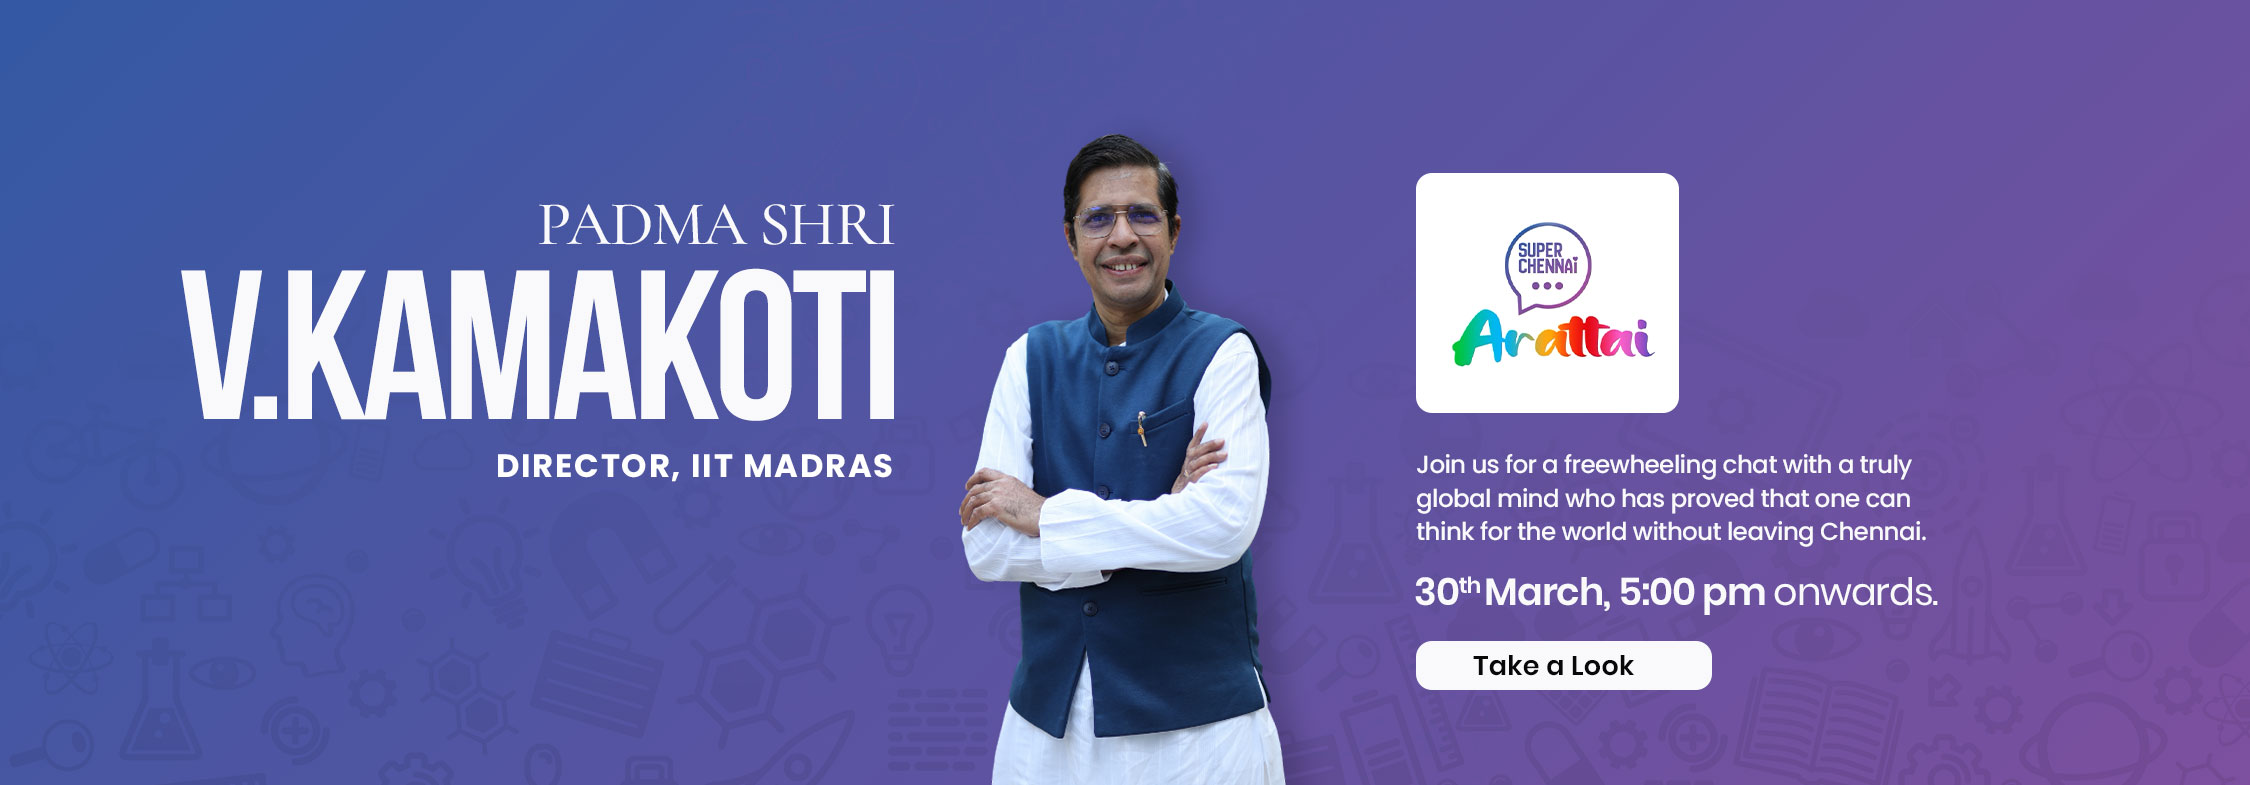
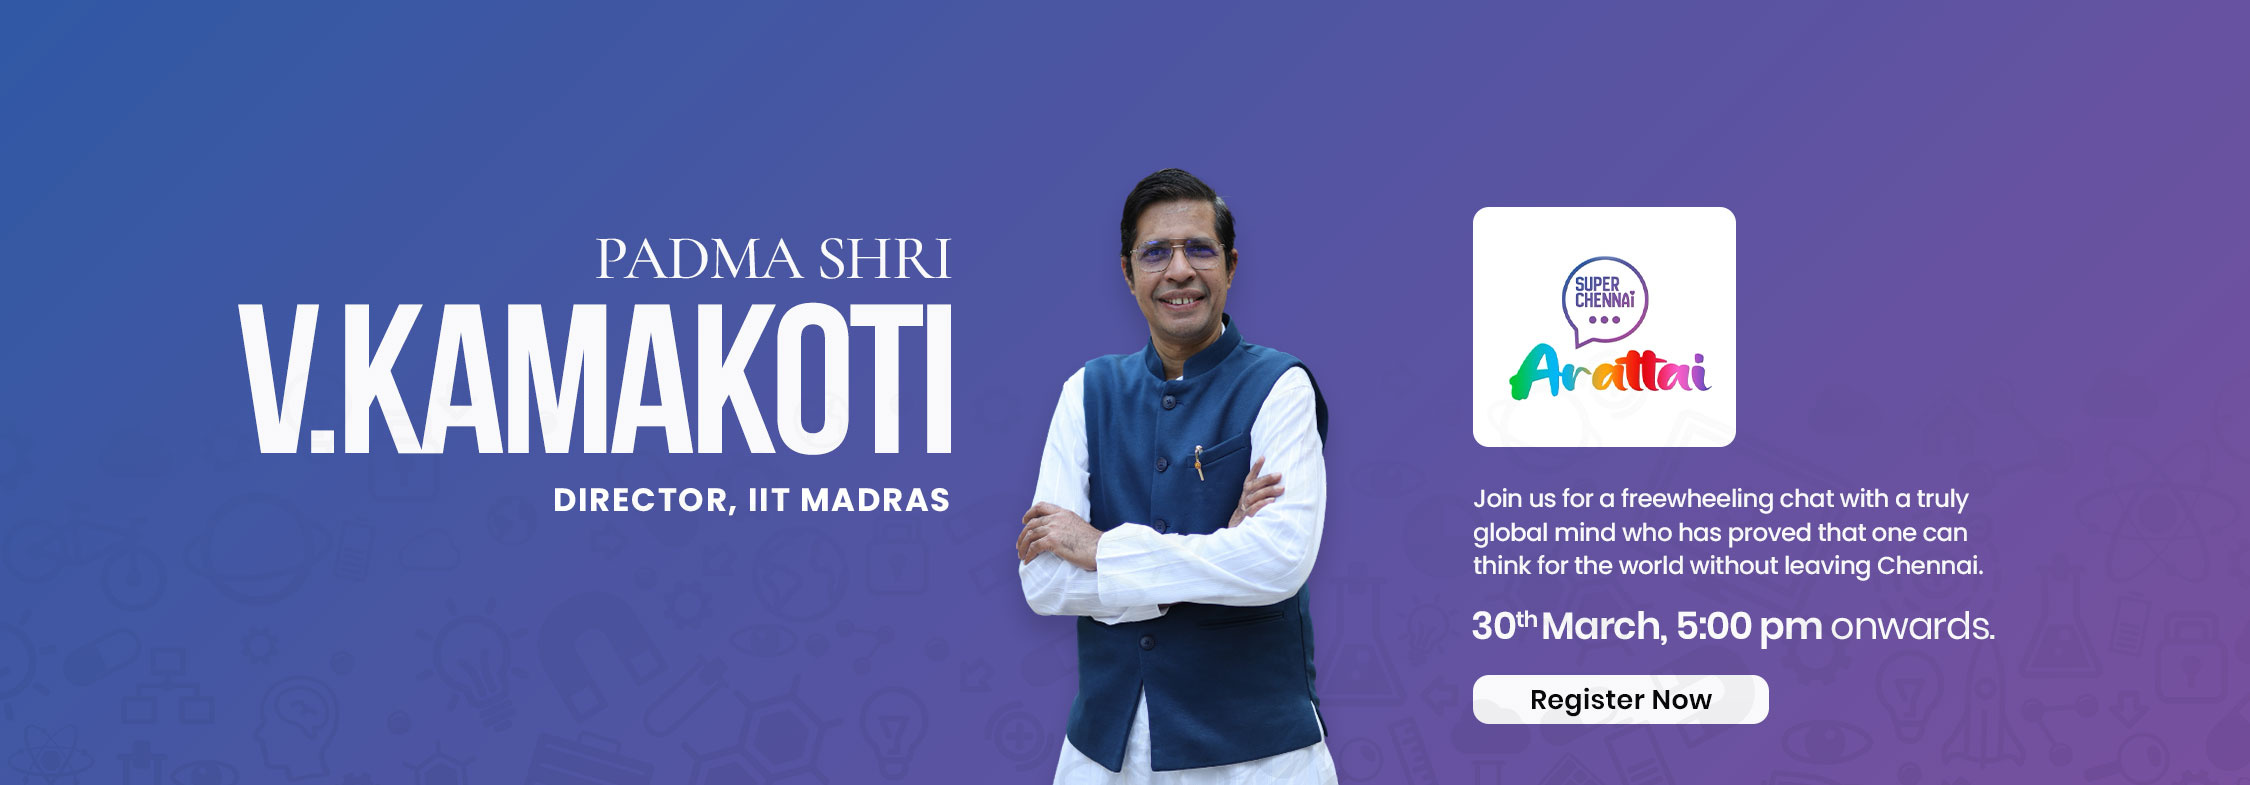
add kamakoti form

Changed region(s): [[0.0622, 0.1529, 0.6222, 1.0], [0.6222, 0.214, 0.9022, 0.9478]]

diff --git a/src/Pages/Activities/ThanksPage.jsx b/src/Pages/Activities/ThanksPage.jsx
@@ -25,12 +25,20 @@ export default function Thankyou() {
     else if (from === "manifesto-info") {
       setImageSrc(
         isMobile
-          ? "/images/mobile-thanky-banner-manifesto.jpeg"
-          : "/images/thankyou-banner-manifesto.jpeg"
+          ? "/images/kamakoti-mobile-thanks.jpeg"
+          : "/images/kamakoti-desktop-thanks.jpeg"
       );
     } 
     
-    else if (from === "jahabar") {
+    else if (from === "kamakoti") {
+      setImageSrc(
+        isMobile
+          ? "/images/mobile-chaikings-tq-banner-f-1.png"
+          : "/images/tq-chaikings-banner-f.jpeg"
+      );
+    } 
+
+      else if (from === "jahabar") {
       setImageSrc(
         isMobile
           ? "/images/mobile-chaikings-tq-banner-f-1.png"
@@ -44,6 +52,8 @@ export default function Thankyou() {
       else
         setImageSrc("/images/thankyou-banner-manifesto.jpeg");
     }
+
+    
   };
 
   handleResize();
@@ -142,8 +152,7 @@ export default function Thankyou() {
 
   return (
     <>
-      <section  className=" carquizbanner relative overflow-hidden cursor-pointer akbaralipage"
->
+      <section className=" carquizbanner relative overflow-hidden cursor-pointer akbaralipage">
         <div>
           <img
             className="eventsCalenderIamge hidden sm:block"
@@ -157,8 +166,7 @@ export default function Thankyou() {
           />
         </div>
 
-        <div className="accaodomationBannerSection carquizbanner relative overflow-hidden cursor-pointer akbaralipage"
->
+        <div className="accaodomationBannerSection carquizbanner relative overflow-hidden cursor-pointer akbaralipage">
           <div className="accodoamationBannerText">
             <h1></h1>
             <AutoShrinkText
@@ -218,6 +226,22 @@ export default function Thankyou() {
 
               <p>
                 Thank you for registering for Arattai with Jahabar Sadique. Your
+                submission has been successfully received, and our team is
+                currently reviewing your registration. If your entry is
+                selected, you will receive an official confirmation email from
+                Team Super Chennai with further details about the event. Please
+                note that your participation will be considered confirmed only
+                after you receive the confirmation email. We appreciate your
+                interest and look forward to connecting with you soon.
+              </p>
+            </div>
+          )}
+
+          {from === "kamakoti" && (
+            <div className="workIntro">
+              <h1>You're Registered!</h1>
+              <p>
+                Thank you for registering for Arattai with kamakoti. Your
                 submission has been successfully received, and our team is
                 currently reviewing your registration. If your entry is
                 selected, you will receive an official confirmation email from

diff --git a/src/Pages/Activities/ArrattaiWithKamakotti/araatai-kamakotti.jsx b/src/Pages/Activities/ArrattaiWithKamakotti/araatai-kamakotti.jsx
@@ -44,7 +44,7 @@ export default function ArattaiWithKamakotti() {
       setLoading(true);
 
       await axios.post(
-        `${API_BASE_URL_API}/arattai-Jahabar/arattai-jahabar/send-otp`,
+        `${API_BASE_URL_API}/arattai-kamakoti/arattai-kamakoti/send-otp`,
         {
           phone: `${form.countryCode}${form.phone}`,
         },
@@ -88,7 +88,7 @@ export default function ArattaiWithKamakotti() {
       setLoading(true);
 
       await axios.post(
-        `${API_BASE_URL_API}/arattai-Jahabar/arattai-jahabar/verify-otp`,
+        `${API_BASE_URL_API}/arattai-kamakoti/arattai-kamakoti/verify-otp`,
         payload,
       );
 
@@ -105,7 +105,7 @@ export default function ArattaiWithKamakotti() {
         organisation: "",
       });
 
-      navigate("/thank-you", { state: { from: "jahabar" } });
+      navigate("/thank-you", { state: { from: "kamakoti" } });
     } catch (err) {
       toast.error(err?.response?.data?.message || "OTP verification failed");
     } finally {
@@ -319,7 +319,7 @@ export default function ArattaiWithKamakotti() {
               </p>
             </div>
 
-            {/* <div className="flex flex-col items-center text-center space-y-4 py-10">
+            <div className="flex flex-col items-center text-center space-y-4 py-10">
               <p className="text-rose-600 font-semibold tracking-wide">
                 Limited Seats Only • Register Now
               </p>
@@ -338,7 +338,7 @@ export default function ArattaiWithKamakotti() {
               >
                 Register Now
               </button>
-            </div> */}
+            </div>
           </div>
         </div>
       </section>

diff --git a/src/App.jsx b/src/App.jsx
@@ -326,6 +326,10 @@ import VerifyOTPPms from "./Pages/login/VerifyOTP";
 import ExploreDiscovery from "./Pages/Explore/ExploreDiscovery";
 import IconofthemonthMarchKamakotti from "./Pages/Icon-of-the-month-march-26";
 import ArattaiWithKamakotti from "./Pages/Activities/ArrattaiWithKamakotti/araatai-kamakotti";
+import ArattaikamakotiExcelView from "./Pages/Activities/ArrattaiWithKamakotti/araatai-kamakoti-excel";
+
+
+
 
 function App() {
   const [isOpen, setIsOpen] = useState(true);
@@ -850,6 +854,13 @@ function App() {
           path="/arattai-with-kamakoti/iit-madras-director"
           element={<ArattaiWithKamakotti />}
         />
+
+        
+         <Route
+          path="/arattai-with-kamakoti/iit-madras-director-admin-entry-oiuyterwqasvcxzdsw/refdewsdfettwfsvvdg/8728272/lmnjhscbnmdt"
+          element={<ArattaikamakotiExcelView />}
+        />
+
 
         <Route
           path="/arattai-with-jahabar-sadique/chai-kings-founder-admin-all-entry"

diff --git a/src/Pages/Activities/ArrattaiWithKamakotti/araatai-kamakoti-excel.jsx b/src/Pages/Activities/ArrattaiWithKamakotti/araatai-kamakoti-excel.jsx
@@ -3,13 +3,13 @@ import { useEffect, useState } from "react";
 import axios from "axios";
 import { formatDateTime } from "../QuizGame/utils/dateTime";
 
-export default function ArattaiJahabarExcelView() {
+export default function ArattaikamakotiExcelView() {
 
   const [data, setData] = useState([]);
 
   const fetchData = async () => {
     const res = await axios.get(
-      "https://api.superchennai.com/api/arattai-Jahabar/arattai-jahabar"
+      "https://api.superchennai.com/arattai-kamakoti/arattai-kamakoti"
     );
 
     if (res.data?.success) {
